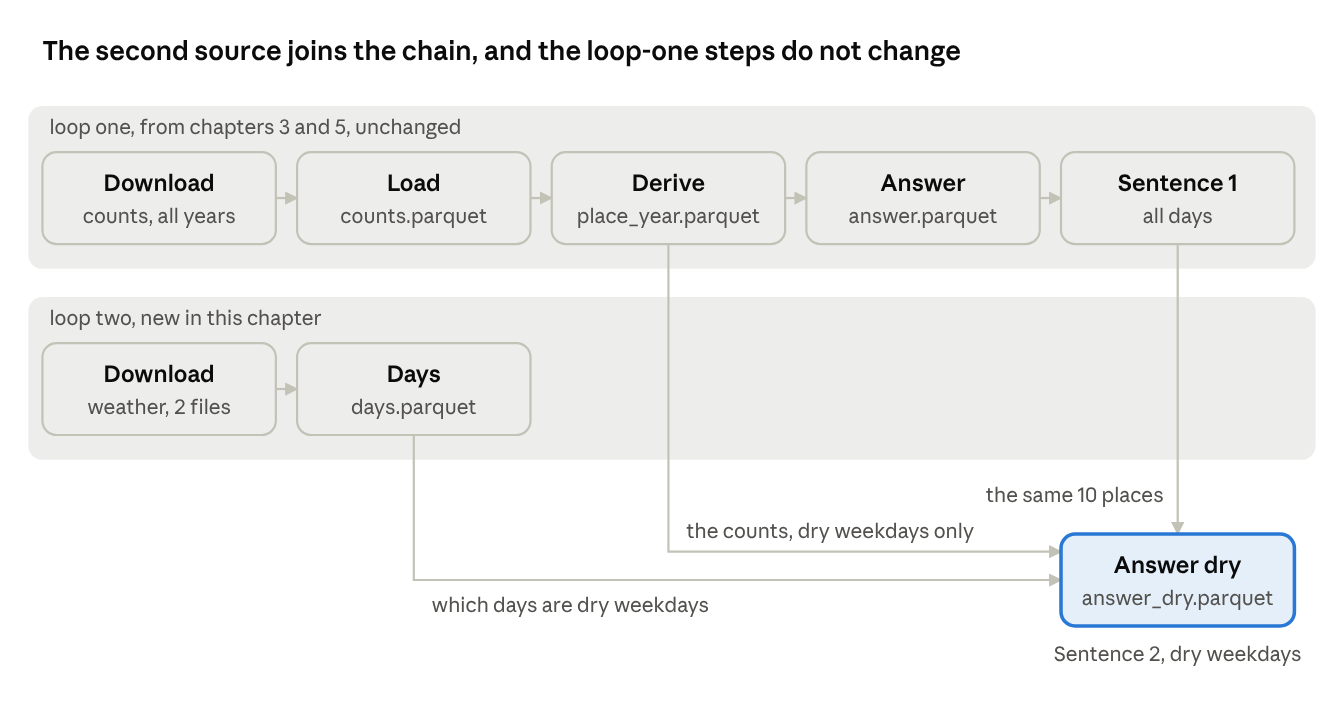
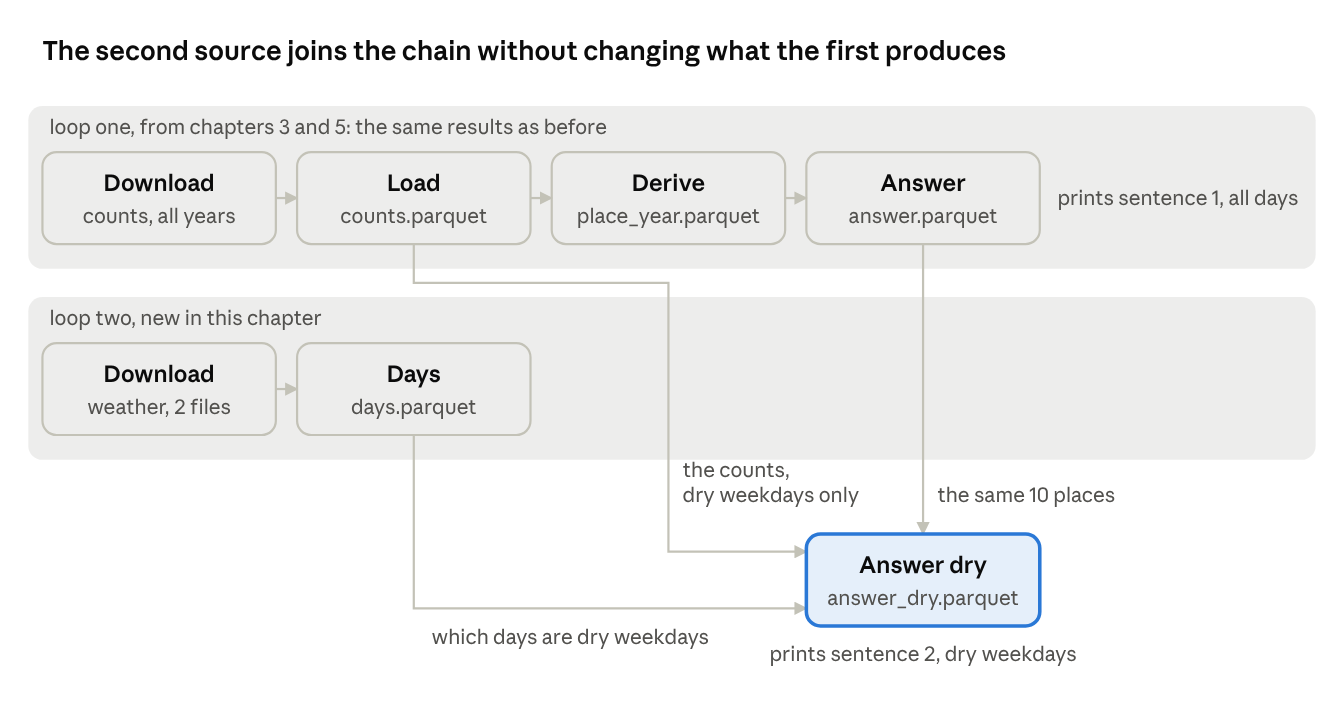
Correct chapter 6 and its image: inputs of answer_dry, the refactor, the manifest lines

diff --git a/tutorial/chapter-6.md b/tutorial/chapter-6.md
@@ -18,9 +18,9 @@ What keeps the project together when a source is added:
 
 This is the first chapter without a new tool, and the shortest.
 
-![The second source joins the chain, and the loop-one steps do not change](images/ch6-pipeline.png)
+![The second source joins the chain without changing what the first produces](images/ch6-pipeline.png)
 
-The upper row is the pipeline from chapter 5, and not one of its steps changed. The lower row is the new source: its own download and its own step. The two meet in exactly one place, the last step.
+The upper row is the pipeline from chapter 5. Its steps produce exactly what they did before, and the one change to their code, a refactor, comes up in the last section. The lower row is the new source: its own download and its own step. The two meet in exactly one place, the last step, which reads the counts, the day table and the first answer.
 
 One more rule sits in the picture: the new source changes one thing. The places, the years, the band and the majority rule are those of loop one, and only the days change. A source that changes several things at once cannot say which one made the difference, and neither can you when something breaks.
 
@@ -172,7 +172,7 @@ Result: the Decision entries of 2026-10-14 and 2026-10-15 in the [log](https://g
 
 Everything before the last step knows one source. The last step is the only place where the two are read together, and it is built like any other step: the expectation into the log first, a fixture that can tell the rules apart, one independent check, and a line in the log that says what the result means.
 
-The new step, `answer_dry`, reads the counts, the day table and the first answer. It keeps the counts of dry weekdays, builds the table per place and year from them with the function that already exists, and applies the rules of loop two. Its output has the same columns as the first answer, and its printed line is a second sentence for the city. The first answer step did not change, and neither did the sentence it prints.
+The new step, `answer_dry`, reads the counts, the day table and the first answer. It keeps the counts of dry weekdays, builds the table per place and year from them with the function that already exists, and applies the rules of loop two. Its output has the same columns as the first answer, and its printed line is a second sentence for the city. The first answer step produces what it did before, and so does the sentence it prints.
 
 Two things made this step safe to build:
 
@@ -215,11 +215,11 @@ Result: [answer\_dry.py](https://github.com/vp-82/ds-projekt-2026-tutorial/blob/
 
 The source is in, and the moment a project starts to slip is now: the rules that were easy to keep for one source get bent for the second. Three things happened in these two days that a rule had to hold against.
 
-**The package that grew.** The last package came to about 255 lines, over the limit of about 200. Part of it was a change to the loop-one step, `answer.py`, so that both answers share the band and the sentence. That is the exact point where a second source starts bending the first one's code, and the rule caught it: the agent named the number and proposed a split. The change to the old step became its own pull request, 27 lines, with no change in results and the seven old tests passing untouched as the proof. A refactor is a package whose check is that nothing moved, and it must never travel inside a package that adds something.
+**The package that grew.** The last package came to about 255 lines, over the limit of about 200. Part of it was a change to the loop-one step, `answer.py`, so that both answers share the band and the sentence. That is the exact point where a second source starts bending the first one's code, and the rule caught it: the agent named the number and proposed a split. The change to the old step became its own pull request, 27 lines of code and a log entry, with no change in results and the seven old tests passing untouched as the proof. A refactor is a package whose check is that nothing moved, and it must never travel inside a package that adds something.
 
 **The 230 lines that stayed.** With the refactor out, the answer package still had 230 lines. 111 of them are the test file and 10 the fixture, both of which a reader checks line by line anyway. The rule says "about 200", and this is what "about" is for. The reason is in the pull request, and that is the difference between a rule bent and a rule ignored.
 
-**The source that moved.** The last check ran the full build with `--force`. That rebuilds every step including the downloads, and the counts file on the portal had grown by a week since chapter 5. The base of the work had changed in the middle of a package. The manifest showed it: three new lines with new dates, and for the counts file a new size and hash. The agent rebuilt everything from the new file, compared every result with the old ones, found them unchanged, and wrote it into the log. Two things follow. The manifest from chapter 3 is what makes a moved source visible at all. And `--force` has earned a hardening package: one flag for the derived tables, a separate one for the downloads.
+**The source that moved.** The last check ran the full build with `--force`. That rebuilds every step including the downloads, and the counts file on the portal had grown by a week since chapter 5. The base of the work had changed in the middle of a package. The manifest showed it: three new lines, and for the counts file a new size and hash. The agent rebuilt everything from the new file, compared every result with the old ones, found them unchanged, and wrote it into the log. Two things follow. The manifest from chapter 3 is what makes a moved source visible at all. And `--force` has earned a hardening package: one flag for the derived tables, a separate one for the downloads.
 
 The same run showed that the one-pager named the date to which the counts data runs, now wrong for the second time. One line points to the manifest instead. A number that changes with every download does not belong in a file that describes the project.
 
